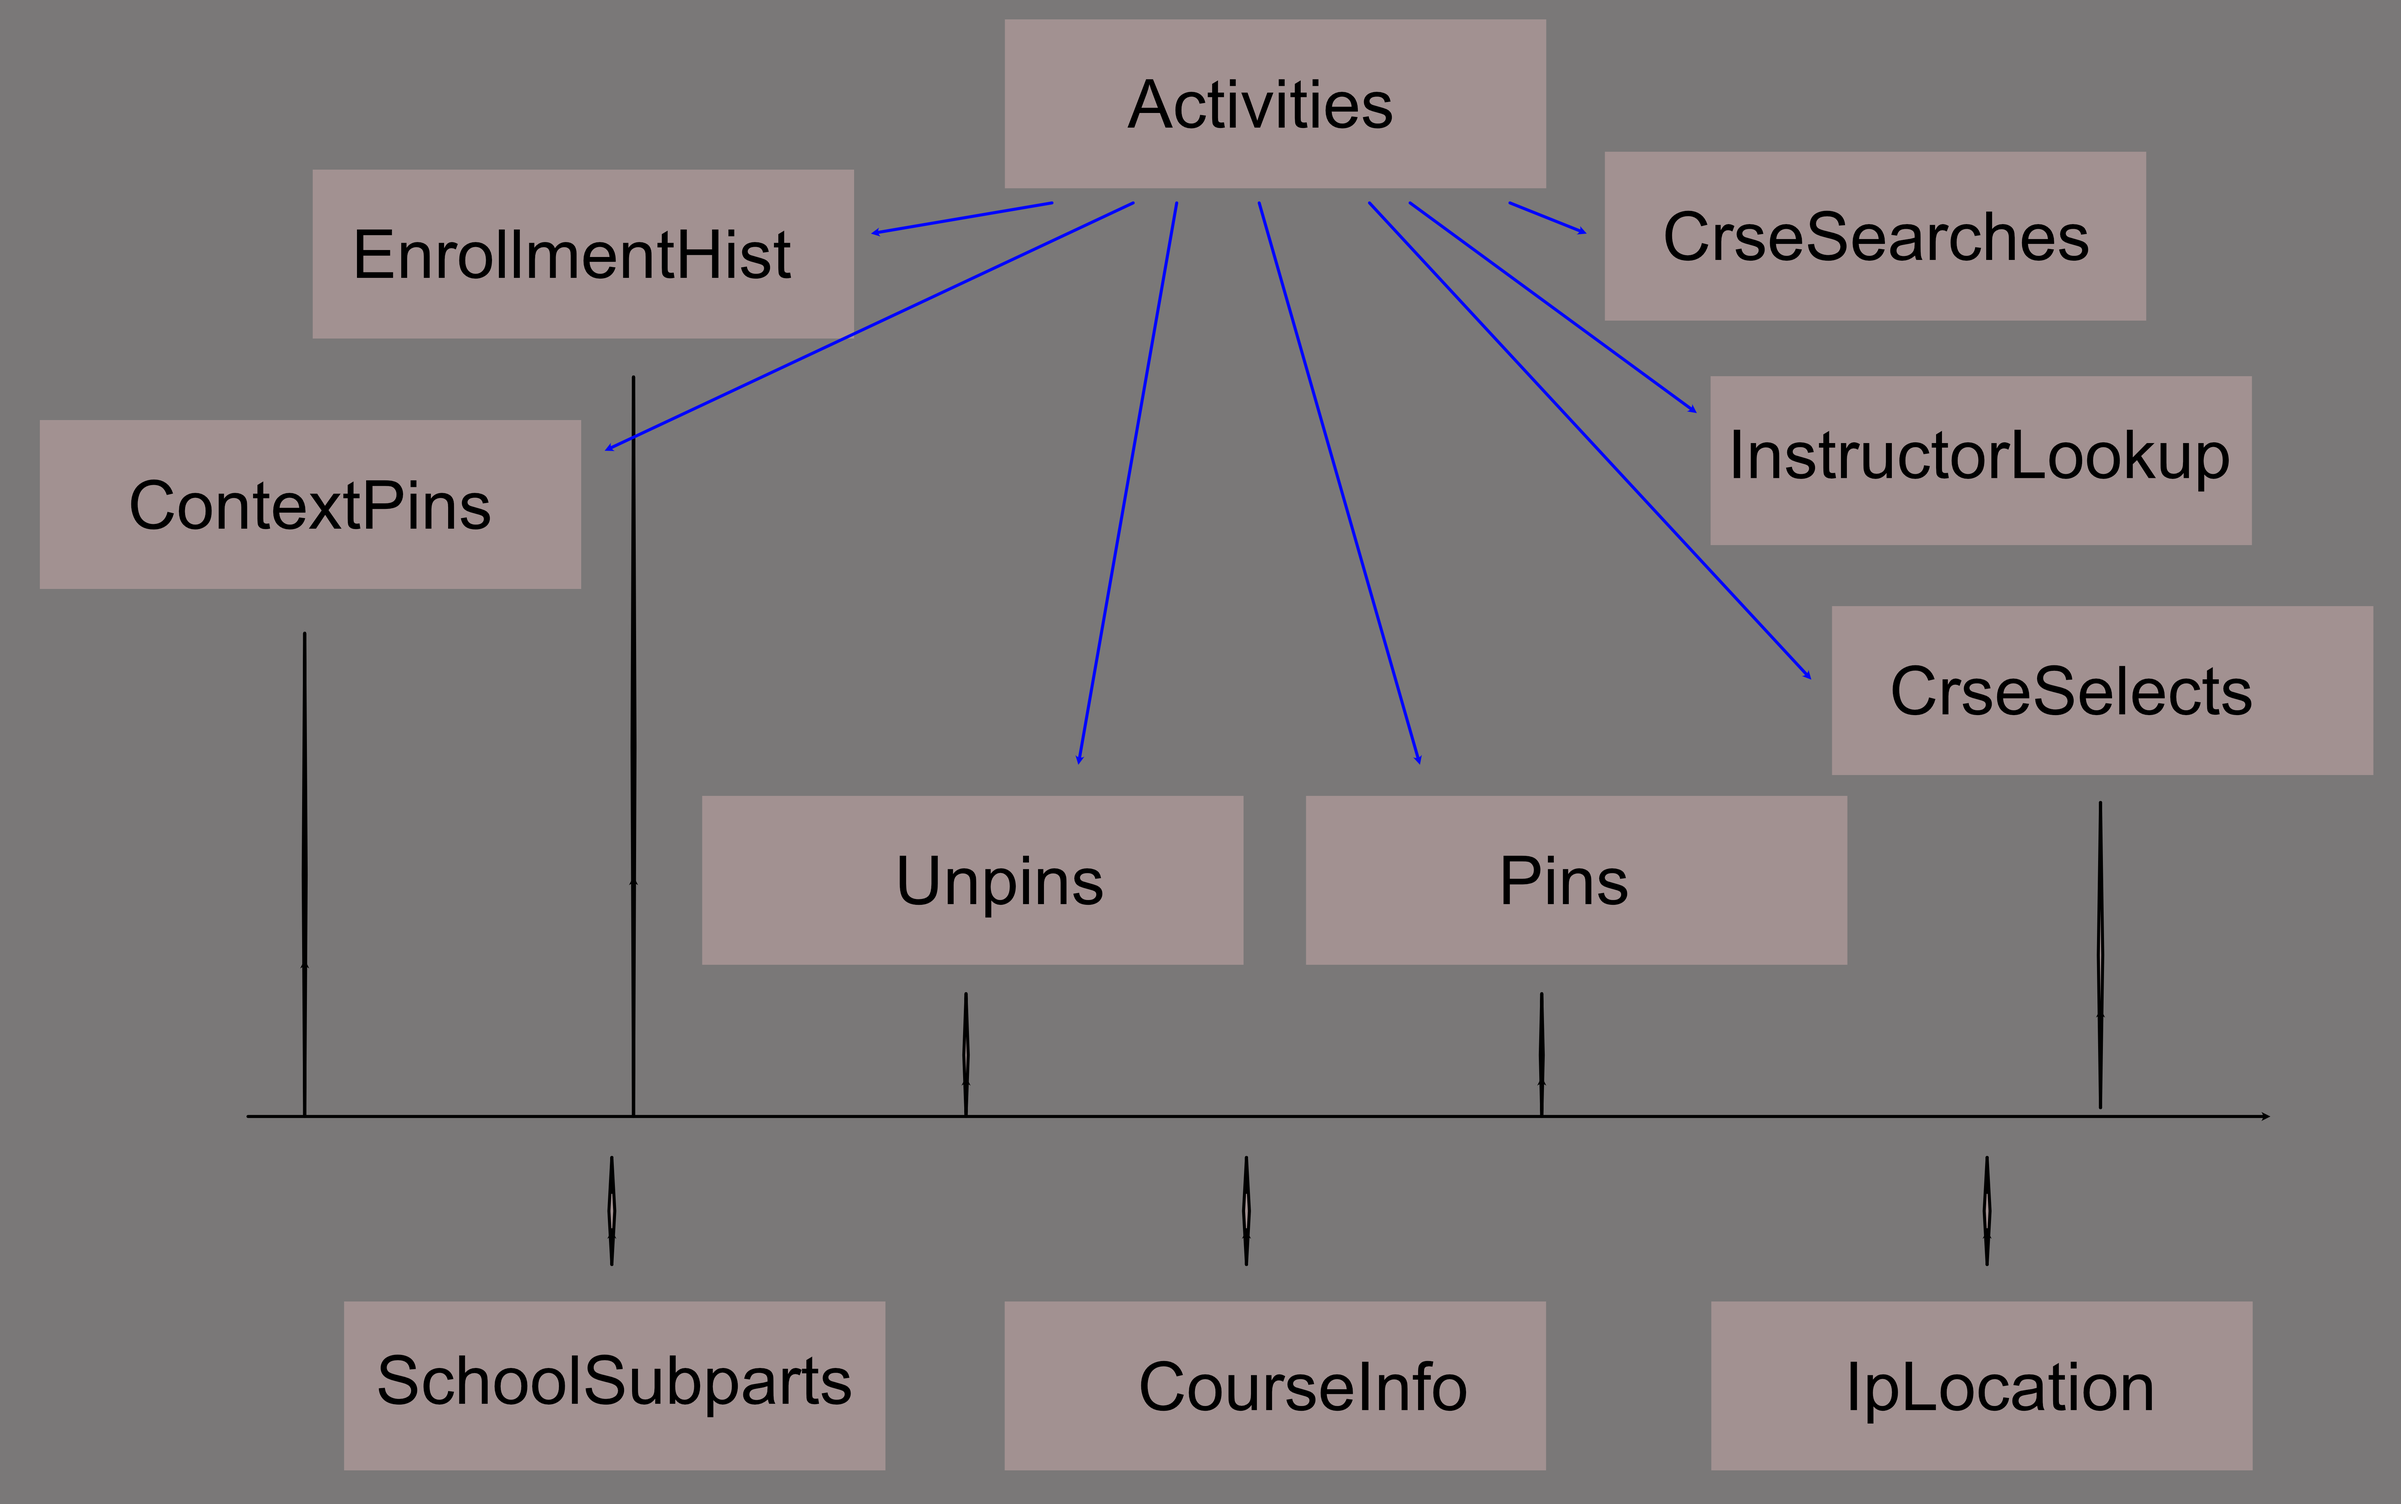
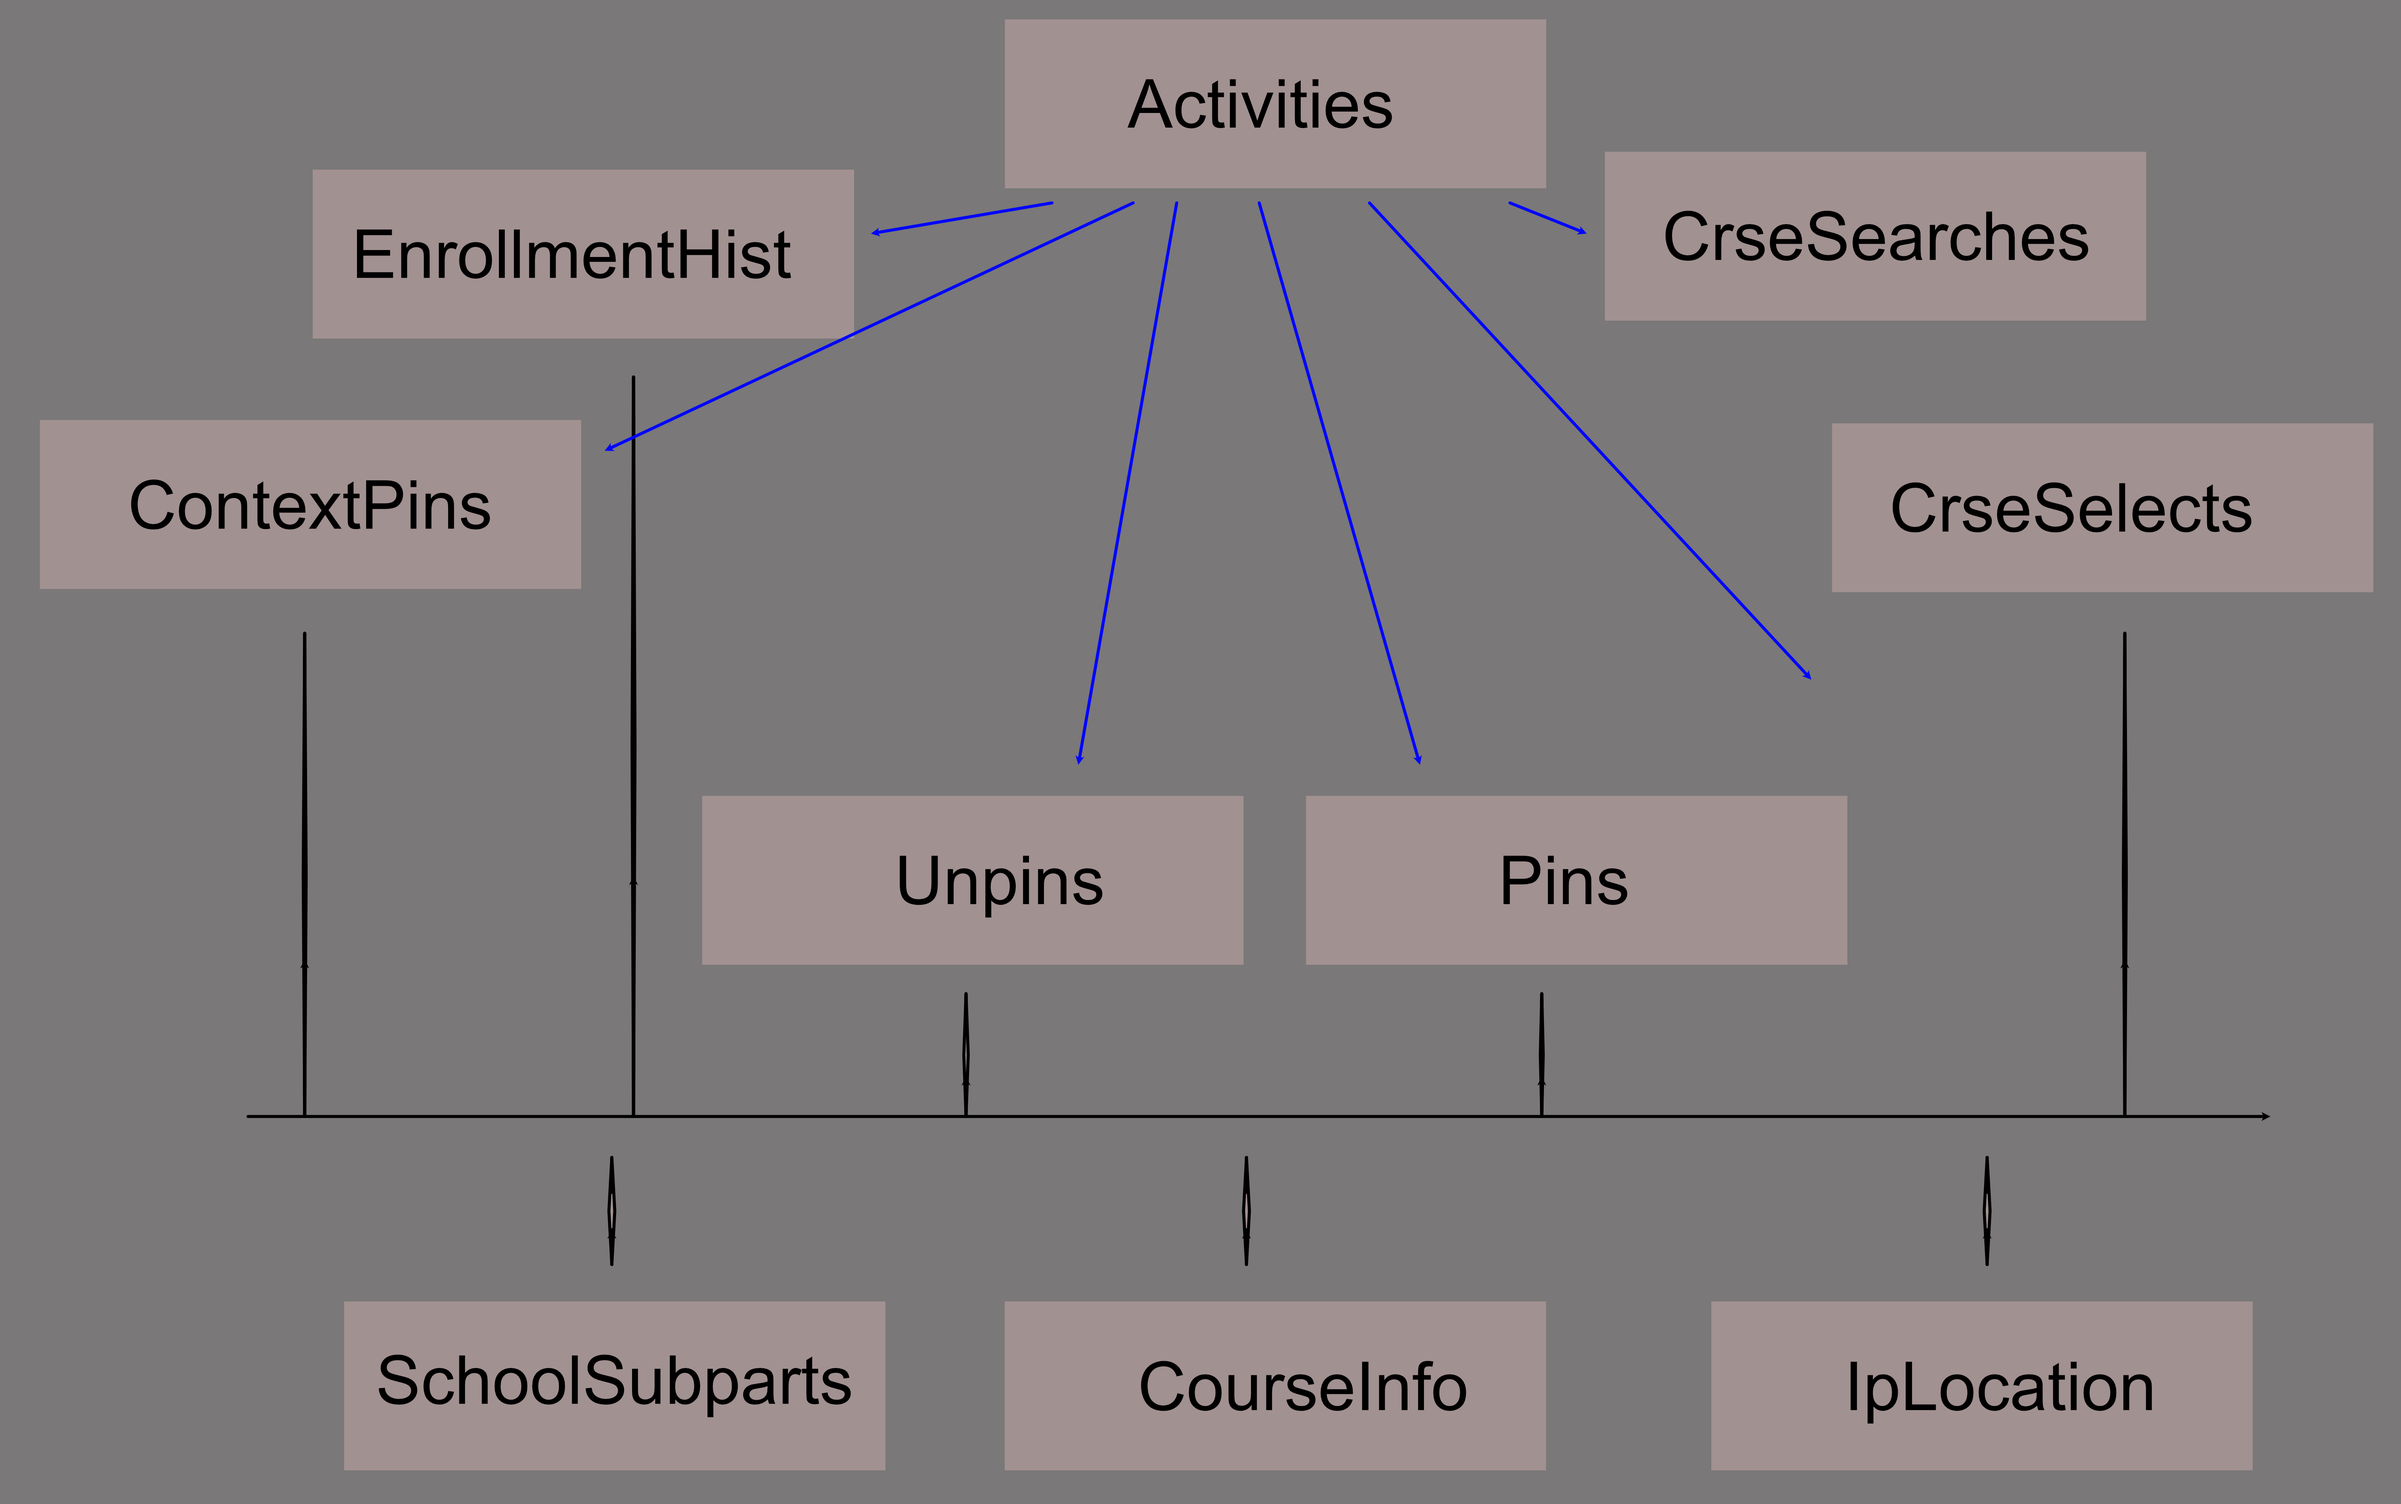
Added data stats figures to README.md

Changed region(s): [[0.6871, 0.2489, 0.9994, 0.6845]]

diff --git a/src/actlog/activity_log_cleaning.py b/src/actlog/activity_log_cleaning.py
@@ -428,7 +428,7 @@ class ActivityLogCleaner(object):
                           'post_feedback'
                           ] or \
                 action in ['discount', 'undiscount', 'show_landing_page',
-                           'show_index_page', 'store_calendar_state',
+                           'store_calendar_state',
                            'user_message', 'confirm_user_message',
                            'reset_confirm_user_message', 'welcome_to_carta',
                            'repin', 'decline_user_message', 'reset_lcs_response',

diff --git a/README.md b/README.md
@@ -25,22 +25,25 @@ These tables provide access to all the information in the activity log. The *Act
 
 ## The Tables&mdash;Overview
 
-Other than the central Activities table, there are seven tables filled with information from activity_log entries. In addition, three auxiliary tables are added for convenience: the course catalog, internet origins by IP address, and department/school/subschool relationships at Stanford:
+Other than the central Activities table, there are five tables filled with information from activity_log entries. In addition, three auxiliary tables are added for convenience: the course catalog, internet origins by IP address, and department/school/subschool relationships at Stanford:
 
 - **Activities**: hub with one record per log entry. Holds the information common to all entries, such as time and student hash.
 - **ContextPins**: some actions deposit a visitor's pins at the time of the action along with the action's other information. Those pinned courses are contained in the ContextPins table.
 - **CourseInfo**: an excerpt of the course catalog; information can be joined with other tables via crs_id.
 - **CrseSearches**: search terms and results from searches that visitors entered into the search box. Return information changed over time:
-    * Early era (~2015) search results contain lists of zeroes, one for each course found. That is, only the number of results is available
-    * Later, the PeopleSoft six-digit course ID numbers were returned for each course.
-    * Later still, the results were separated into course results and instructor results.
+    * Early era (<= 2015-10-24 17:00:14) search results contain lists of zeroes, one for each course found. That is, only the number of results is available
+    * Later (>= 2015-10-24 21:58:04), the PeopleSoft six-digit course ID numbers were returned for each course.
+    * Later still (beginning 2017-01-03), the results were separated into course results and instructor results.
 - **CrseSelects**: visitor clicking on a search result
 - **EnrollmentHist**: similar to ContextPins, the records for some actions include the visitor's enrollments
-- **InstructorLookup**: visitor clicked on an instructor link to see their profile
 - **IpLocation**: publicly available information about request origin. Mostly provided for Covid related investigations.
 - **Pins**: course pin actions
 - **SchoolSubparts**: for each course subject (CS, PHIL, ...), the responsible department, the School, and in the case of H&S the subschool
 - **Unpins**: unpinning courses
+
+The geographic distribution of Carta usage.
+
+![Distribution of Carta Visitors](readme_figs/GeoDistrib.png)
 
 ## Strategy Tricks
 
@@ -67,7 +70,6 @@ crs_description: Why do we spend billions of dollars exploring space? What can m
 ```
 
 - Use the IpLocation table joined to Activities for an estimate of visitors accessing from on&ndash;, versus off campus locations. This information might be of interest when looking for Covid related effects
-- The entries in InstructorLookup are created by visitors expending the extra effort of clicking on a particular instructor to see their profile
 - Use the ContextPins and EnrollmentHist tables to estimate a visitor's goal mindset during interactions.
 
 ## Activities Table
@@ -89,6 +91,11 @@ The activity categories that are likely of interest are:
                   details about the course.
 - pin/unpin : use of the Carta course pinning feature
 - instructor_profile : searching for instructor information.
+
+Figure 3 shows the frequency distribution of actions.
+
+![Distribution of Action Types](readme_figs/ActionDistribution.png)
+
 
 ## Pinning-Related Tables
 
@@ -130,7 +137,9 @@ The search results from recent Carta years look like the following two rows:
 
 When a search matched courses, the respective course IDs are noted. When an instructor matched, the hits are recorded in the *instructor_res* column.
 
-The *InstructorLookups* table contains the names of instructors whose profile visitors requested.
+Figure 4 shows the cyclicity of Carta searches.
+
+![Searches Over Time](readme_figs/NumSearchesByTime.png)
 
 
 ## Enrollment
